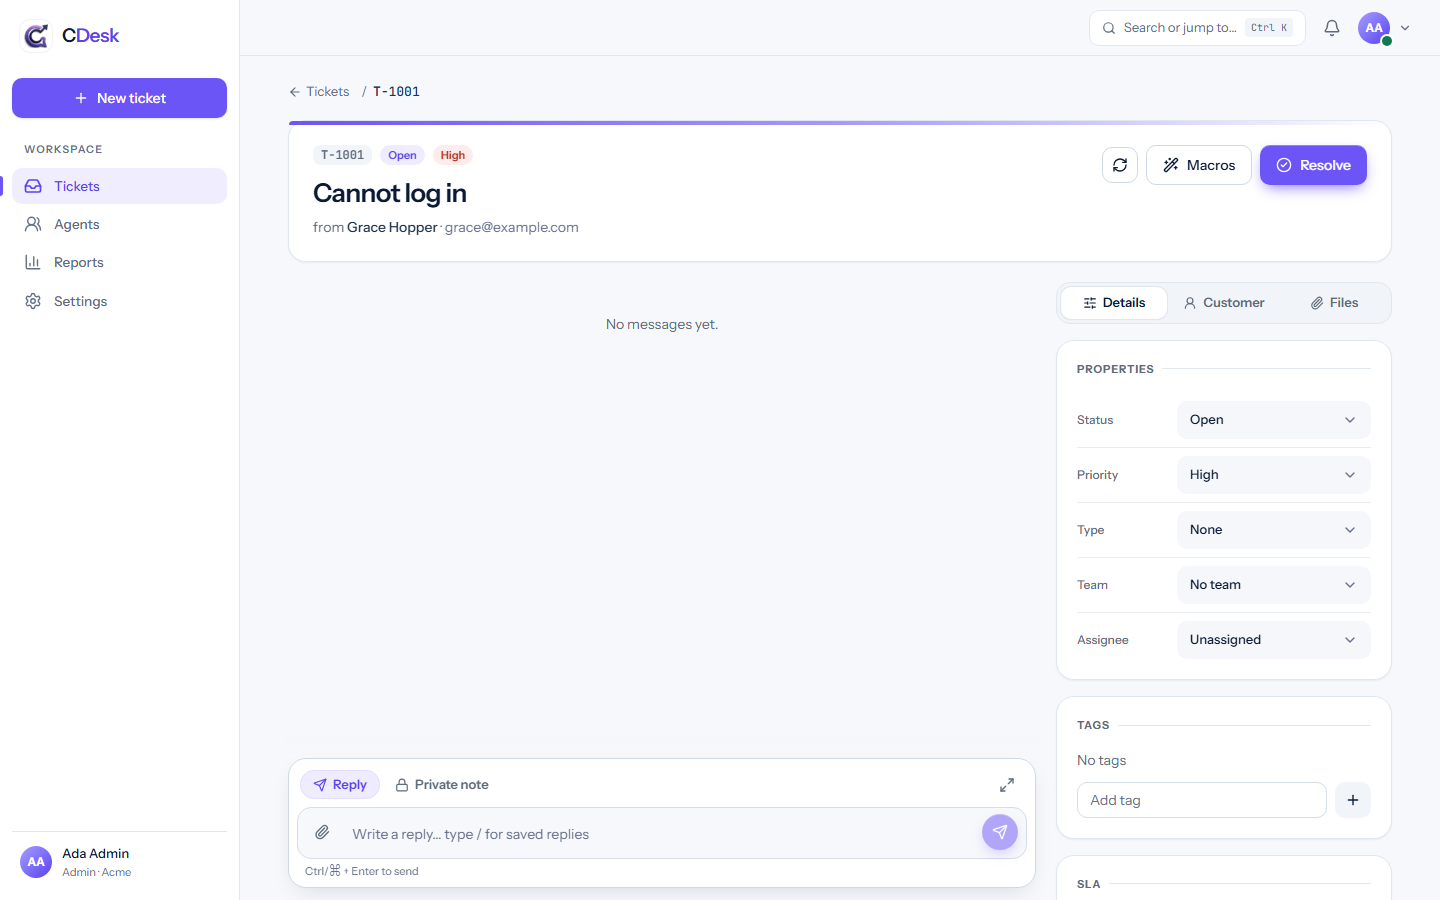
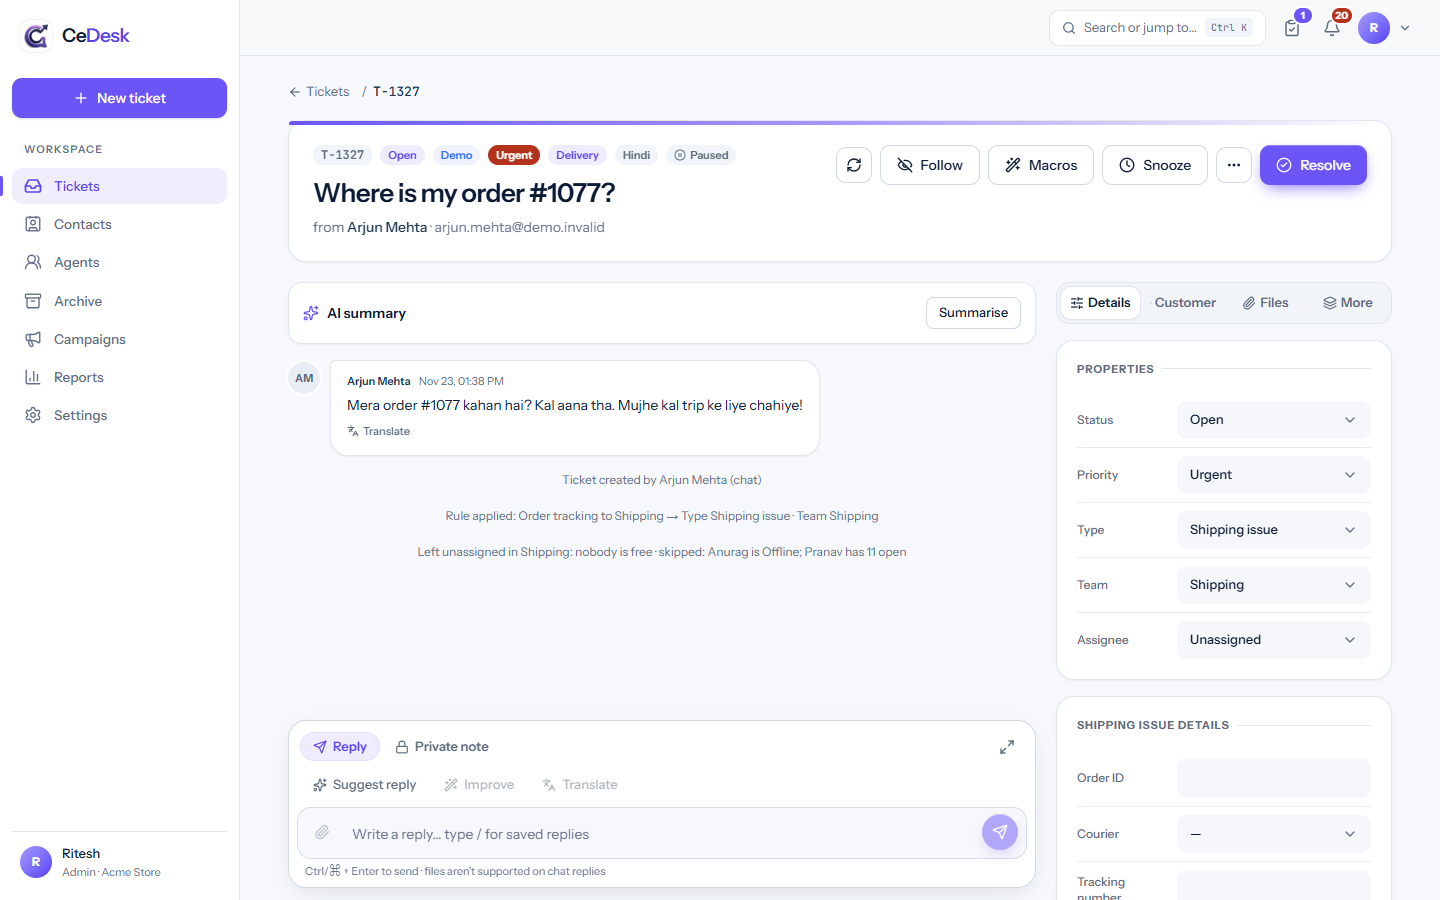
docs: refresh README screenshots from the demo workspace
Replace the mock-data captures with screenshots of the Acme Store demo
workspace and group them by area: sign-in, tickets, contacts and agents,
reports, admin settings and the customer-facing pages.

diff --git a/frontend/README.md b/frontend/README.md
@@ -4,11 +4,61 @@ Web frontend for CeDesk, a customer support desk. Agents, supervisors and admins
 
 ## Screenshots
 
-Captured from the app running against the sample data in `e2e/mock-backend.ts`, not a real workspace.
+Captured from a demo workspace (Acme Store) with sample data, not a real customer workspace.
 
-![Ticket inbox](docs/images/ticket-inbox.png)
+### Sign in
 
-![Ticket detail](docs/images/ticket-detail.png)
+![Sign in](docs/images/login.png)
+
+### Tickets
+
+| Inbox | Ticket detail |
+| --- | --- |
+| ![Ticket inbox](docs/images/ticket-inbox.png) | ![Ticket detail](docs/images/ticket-detail.png) |
+
+![New ticket](docs/images/new-ticket.png)
+
+### Contacts, agents and campaigns
+
+| Contacts | Agents |
+| --- | --- |
+| ![Contacts](docs/images/contacts.png) | ![Agents](docs/images/agents.png) |
+
+![Campaigns](docs/images/campaigns.png)
+
+### Reports
+
+| Live | Team |
+| --- | --- |
+| ![Live report](docs/images/reports-live.png) | ![Team report](docs/images/reports-team.png) |
+
+![Backlog report](docs/images/reports-backlog.png)
+
+![Dashboards](docs/images/reports-dashboards.png)
+
+### Admin settings
+
+| Members | Teams |
+| --- | --- |
+| ![Members](docs/images/settings-members.png) | ![Teams](docs/images/settings-teams.png) |
+
+| SLA | Rules |
+| --- | --- |
+| ![SLA](docs/images/settings-sla.png) | ![Rules](docs/images/settings-rules.png) |
+
+| Workflows | Macros |
+| --- | --- |
+| ![Workflows](docs/images/settings-workflows.png) | ![Macros](docs/images/settings-macros.png) |
+
+| Help center | Roles |
+| --- | --- |
+| ![Help center settings](docs/images/settings-help-center.png) | ![Roles](docs/images/settings-roles.png) |
+
+### Customer-facing pages
+
+| Help center | Portal sign-in |
+| --- | --- |
+| ![Public help center](docs/images/public-help.png) | ![Customer portal](docs/images/public-portal.png) |
 
 ## What it does
 
